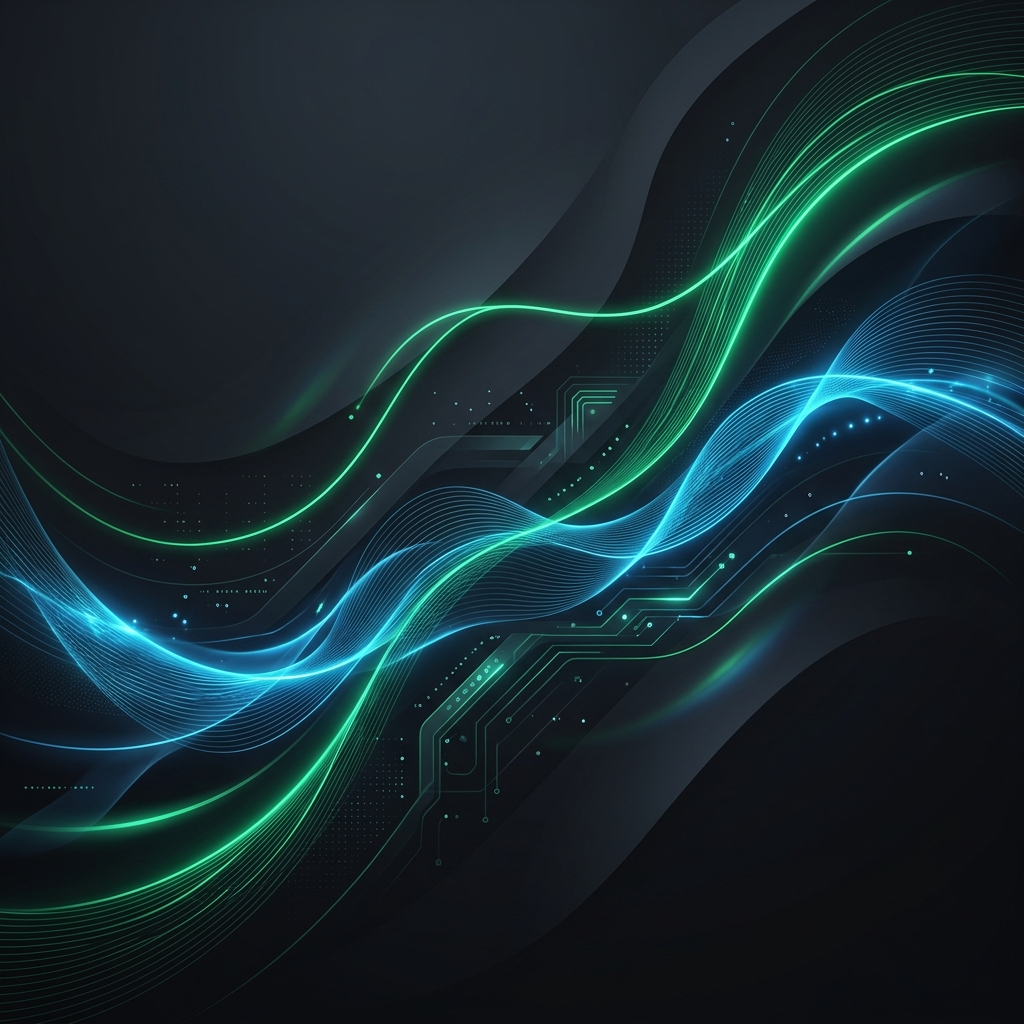
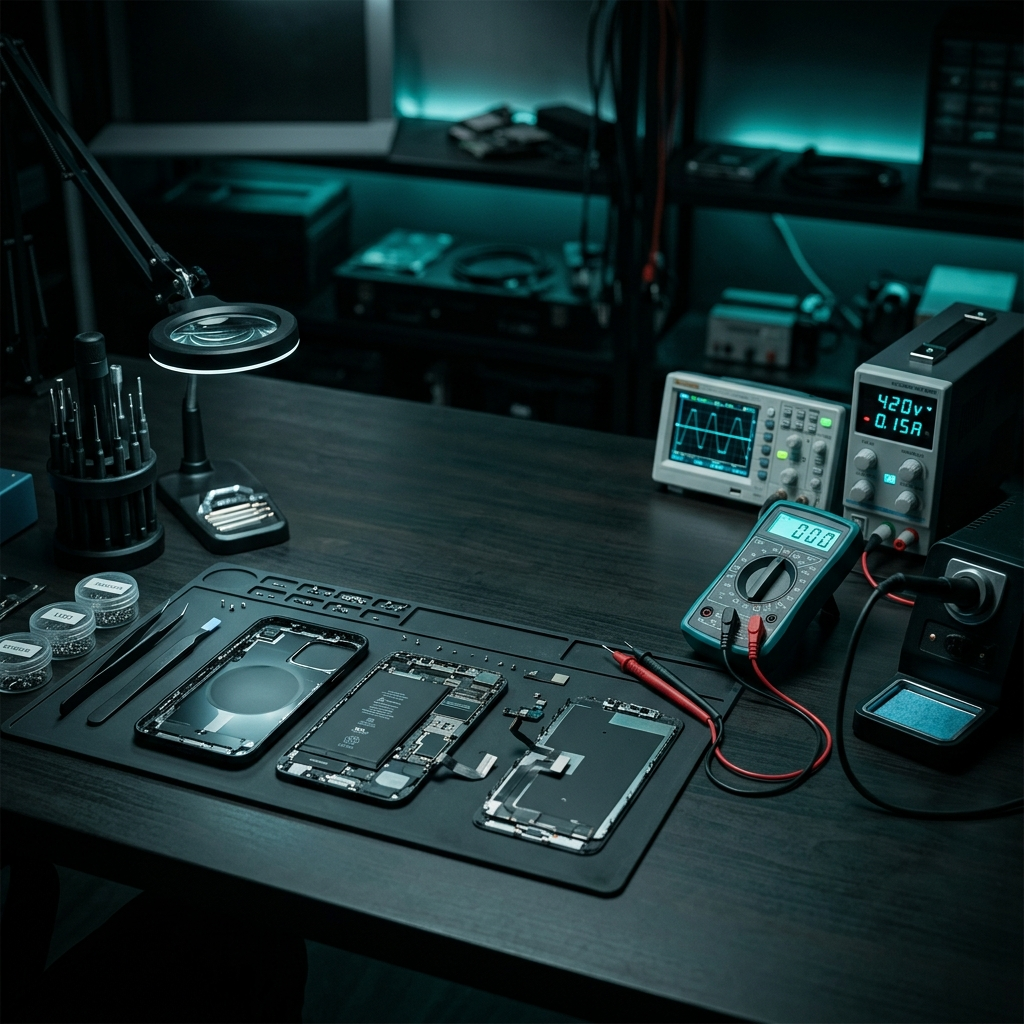
Add cinematic hero background video tag structure and photorealistic poster image fallback

diff --git a/src/app/page.tsx b/src/app/page.tsx
@@ -191,17 +191,24 @@ export default function Home() {
   return (
     <div className="flex-grow flex flex-col relative overflow-hidden bg-background">
       
-      {/* Background Video Backdrop */}
+      {/* Background Animated Wallpaper Grid / Hero Cinematic Video */}
       <div className="absolute top-[-100px] left-0 w-full h-[800px] overflow-hidden pointer-events-none select-none z-0">
-        <div className="absolute inset-0 bg-gradient-to-b from-transparent via-background/80 to-background z-10" />
+        <div className="absolute inset-0 bg-gradient-to-b from-transparent via-background/60 to-background z-10" />
         <video
           autoPlay
           loop
           muted
           playsInline
-          className="w-full h-full object-cover opacity-[0.28] dark:opacity-[0.18]"
+          poster="/hero_background.png"
+          className="w-full h-full object-cover opacity-[0.32] dark:opacity-[0.24] animate-slow-pan"
         >
-          <source src="/background_video.mp4" type="video/mp4" />
+          <source src="/hero_bg.mp4" type="video/mp4" />
+          {/* Fallback image in case video fails to load */}
+          <img
+            src="/hero_background.png"
+            alt="Smart Care Premium backdrop"
+            className="w-full h-full object-cover"
+          />
         </video>
       </div>
 
